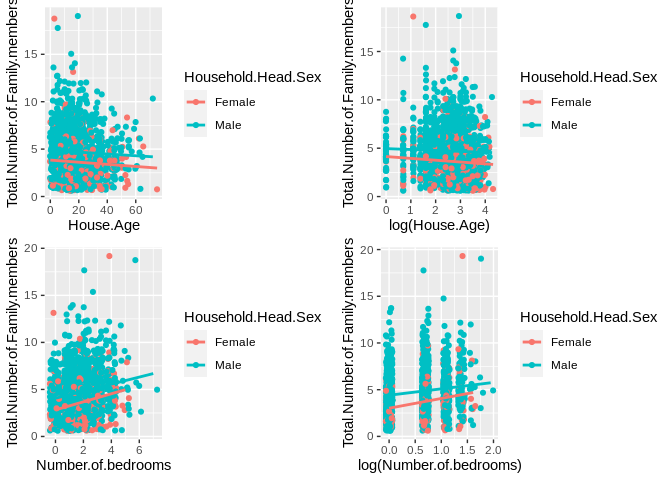
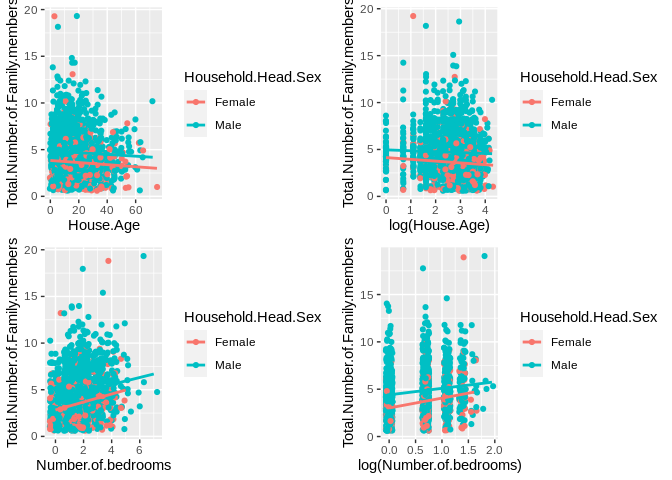
Fixing the poistion of fig in chunck 42

diff --git a/group_04.md b/group_04.md
@@ -1,4 +1,5 @@
-Exploratory Data Analysis
+Analysis of deciding factors for number of family members in XII -
+SOCCSKSARGEN Region of Philippines.
 ================
 QingZhang, Suraj Kumar, Xin Zhang, Xinyue Shu, Yao Xiao
 2021/7/18
@@ -984,8 +985,14 @@ House.Age has a weak collinearity with Total.Food.Expenditure
 (correlation is 0.322) 3. Number.of.bedrooms has a weak collinearity
 with House.Floor.Area (correlation is 0.426).
 
-![ Matrix of plots with data
-set](group_04_files/figure-gfm/matrix-1.png)
+<div class="figure" style="text-align: center">
+
+<img src="group_04_files/figure-gfm/matrix-1.png" alt="\label{fig:matrix} Matrix of plots with data set"  />
+<p class="caption">
+Matrix of plots with data set
+</p>
+
+</div>
 
 The proportion of female-headed households being extended is higher than
 that of male-headed households (41.7% and 24.7%, respectively), and
